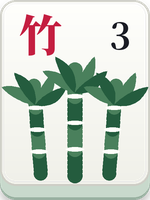
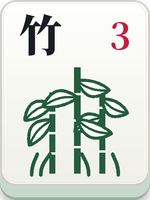
feat: 花牌改照參考牌的線稿風重畫，數字維持與正花規則一致
Claude-Session: https://claude.ai/code/session_01FkaSKsoHVMd3gT73nEjQwJ

Changed region(s): [[0.0, 0.06, 0.9867, 0.93], [0.72, 0.09, 0.88, 0.27]]

diff --git a/apps/manjong-unity/tools/render_tiles.py b/apps/manjong-unity/tools/render_tiles.py
@@ -405,186 +405,207 @@ def draw_honor(img, code):
 
 
 # ---------------------------------------------------------------- flowers (花牌)
-def plum_flower(d, cx, cy, r, color=RED):
-    """Five round petals with a stamen crown."""
-    for k in range(5):
-        a = math.radians(-90 + k * 72)
-        px, py = cx + math.cos(a) * r * 0.58, cy + math.sin(a) * r * 0.58
-        d.ellipse((px - r * 0.52, py - r * 0.52, px + r * 0.52, py + r * 0.52), fill=color, outline=PAPER, width=max(1, int(r * 0.07)))
-    dot(d, cx, cy, r * 0.30, PAPER)
-    dot(d, cx, cy, r * 0.20, mix(color, (0, 0, 0), 0.25))
-    for k in range(5):
-        a = math.radians(-54 + k * 72)
-        dot(d, cx + math.cos(a) * r * 0.36, cy + math.sin(a) * r * 0.36, r * 0.06, PAPER)
+# Line-art style: crimson outlined blossoms with a paper-white interior, thin green stems and leaves.
+LW = 3.4 * S  # outline width of blossoms (kept thick enough to survive a 44 px tall thumbnail)
+GW = 3.6 * S  # width of green lines
+
+
+def ocircle(d, cx, cy, r, color=RED, lw=LW, fill=PAPER):
+    d.ellipse((cx - r, cy - r, cx + r, cy + r), fill=fill, outline=color, width=max(1, int(lw)))
+
+
+def line(d, pts, w, color):
+    stroke(d, pts, w, w, color)
+
+
+def lens_pts(p0, p1, width, bend=0.0, steps=22):
+    vx, vy = p1[0] - p0[0], p1[1] - p0[1]
+    length = math.hypot(vx, vy) or 1.0
+    nx, ny = -vy / length, vx / length
+    left, right, axis = [], [], []
+    for i in range(steps + 1):
+        t = i / steps
+        off = bend * length * math.sin(math.pi * t)
+        cx, cy = p0[0] + vx * t + nx * off, p0[1] + vy * t + ny * off
+        half = width / 2 * math.sin(math.pi * t) ** 0.8
+        left.append((cx + nx * half, cy + ny * half))
+        right.append((cx - nx * half, cy - ny * half))
+        axis.append((cx, cy))
+    return left + right[::-1], axis
+
+
+def oleaf(d, p0, p1, width, color=GREEN, bend=0.0, lw=GW * 0.8, fill=PAPER, mid=True):
+    """Outlined leaf: coloured contour, paper interior, optional midrib."""
+    poly, axis = lens_pts(p0, p1, width, bend)
+    d.polygon(poly, fill=fill)
+    line(d, poly + [poly[0]], lw, color)
+    if mid:
+        line(d, axis[1:-1], lw * 0.7, color)
+
+
+def scallop_flower(d, cx, cy, r, count=8, color=RED, lw=LW):
+    """Blossom whose outline is a ring of lobes; interior stays paper-white."""
+    ring = r * 0.68
+    lobe = r * 0.36
+    for k in range(count):
+        a = k * 2 * math.pi / count
+        dot(d, cx + math.cos(a) * ring, cy + math.sin(a) * ring, lobe, color)
+    for k in range(count):
+        a = k * 2 * math.pi / count
+        dot(d, cx + math.cos(a) * ring, cy + math.sin(a) * ring, max(1, lobe - lw), PAPER)
+    dot(d, cx, cy, ring, PAPER)
 
 
 def draw_plum(d, P, sc):
-    stroke(d, bezier(P(0.04, 0.96), P(0.3, 0.9), P(0.45, 0.62), P(0.95, 0.12)), sc * 0.075, sc * 0.03, BROWN)
-    stroke(d, bezier(P(0.3, 0.84), P(0.32, 0.7), P(0.26, 0.5), P(0.2, 0.34)), sc * 0.04, sc * 0.02, BROWN)
-    stroke(d, bezier(P(0.56, 0.58), P(0.62, 0.6), P(0.72, 0.58), P(0.86, 0.6)), sc * 0.035, sc * 0.018, BROWN)
-    plum_flower(d, *P(0.4, 0.62), sc * 0.23)
-    plum_flower(d, *P(0.76, 0.34), sc * 0.17)
-    plum_flower(d, *P(0.2, 0.34), sc * 0.14)
-    for (u, v) in ((0.62, 0.8), (0.9, 0.5), (0.08, 0.6), (0.5, 0.2)):  # buds
-        dot(d, *P(u, v), sc * 0.05, RED)
-    leaf(d, P(0.34, 0.9), P(0.12, 0.84), sc * 0.1, GREEN, bend=0.1)
-    leaf(d, P(0.5, 0.4), P(0.56, 0.18), sc * 0.1, GREEN, bend=-0.1)
+    """梅: scalloped crimson blossom with a red heart, green twig with buds below."""
+    cx, cy = P(0.4, 0.32)
+    r = sc * 0.3
+    scallop_flower(d, cx, cy, r, 8)
+    ocircle(d, cx, cy, r * 0.36, RED, LW * 0.8)
+    dot(d, cx, cy, r * 0.16, RED)
+    # twig
+    line(d, bezier(P(0.06, 0.9), P(0.28, 0.82), P(0.5, 0.96), P(0.9, 0.7)), GW, GREEN)
+    line(d, bezier(P(0.7, 0.8), P(0.78, 0.62), P(0.84, 0.5), P(0.92, 0.46)), GW, GREEN)
+    line(d, bezier(P(0.46, 0.88), P(0.5, 0.72), P(0.56, 0.66), P(0.62, 0.62)), GW * 0.9, GREEN)
+    for (u, v, rr) in ((0.16, 0.86, 0.06), (0.3, 0.9, 0.05), (0.56, 0.92, 0.055), (0.92, 0.46, 0.05), (0.64, 0.6, 0.05)):
+        ocircle(d, *P(u, v), sc * rr, GREEN, GW * 0.8)
 
 
 def draw_orchid(d, P, sc):
-    base = P(0.5, 0.97)
-    ends = [(0.04, 0.38, -0.12), (0.16, 0.2, -0.1), (0.34, 0.06, -0.08), (0.7, 0.1, 0.08), (0.86, 0.26, 0.12), (0.97, 0.48, 0.12)]
-    for i, (u, v, bend) in enumerate(ends):
-        e = P(u, v)
-        mid1 = (lerp(base[0], e[0], 0.25), lerp(base[1], e[1], 0.6))
-        mid2 = (lerp(base[0], e[0], 0.75) + (e[0] - base[0]) * bend * 0.3, lerp(base[1], e[1], 0.85))
-        stroke(d, bezier(base, mid1, mid2, e), sc * 0.12, sc * 0.015, GREEN if i % 2 == 0 else GREEN_L)
-    # flower stalk with two orchid blossoms
-    stalk = bezier(P(0.5, 0.97), P(0.52, 0.7), P(0.47, 0.55), P(0.5, 0.38))
-    stroke(d, stalk, sc * 0.03, sc * 0.02, GREEN)
-    for (u, v, r, rot) in ((0.5, 0.4, 0.26, -90), (0.34, 0.66, 0.2, -140), (0.66, 0.62, 0.2, -40)):
-        cx, cy = P(u, v)
-        for k in range(5):
-            a = math.radians(rot + k * 72)
-            petal(d, cx, cy, a, 0, sc * r * (1.0 if k % 2 == 0 else 0.8), sc * r * 0.5, RED)
-        dot(d, cx, cy, sc * r * 0.22, PAPER)
-        dot(d, cx, cy, sc * r * 0.12, GREEN)
+    """蘭: long arching green leaves with a single crimson blossom."""
+    base = P(0.22, 0.98)
+    for tip, c1, c2, w0 in (
+        (P(0.1, 0.42), P(0.12, 0.8), P(0.04, 0.62), 0.11),
+        (P(0.52, 0.28), P(0.2, 0.78), P(0.3, 0.46), 0.1),
+        (P(0.72, 0.9), P(0.3, 0.6), P(0.62, 0.52), 0.09),
+        (P(0.46, 0.7), P(0.28, 0.95), P(0.4, 0.82), 0.07),
+    ):
+        stroke(d, bezier(base, c1, c2, tip), sc * w0, GW * 0.5, GREEN)
+    # blossom on a thin stalk
+    line(d, bezier(P(0.5, 0.5), P(0.56, 0.4), P(0.62, 0.3), P(0.68, 0.22)), GW * 0.8, GREEN)
+    cx, cy = P(0.7, 0.26)
+    for ang, ln in ((-50, 0.2), (30, 0.2), (-120, 0.17), (90, 0.17), (-170, 0.15)):
+        a = math.radians(ang)
+        tip = (cx + math.cos(a) * sc * ln * 1.35, cy + math.sin(a) * sc * ln * 1.35)
+        poly, _ = lens_pts((cx, cy), tip, sc * 0.18)
+        d.polygon(poly, fill=PAPER)
+        line(d, poly + [poly[0]], LW * 0.9, RED)
+    dot(d, cx, cy, sc * 0.05, RED)
 
 
 def draw_bamboo(d, P, sc):
-    culms = [(0.2, 0.97, 0.14, 0.2, 0.12), (0.5, 0.99, 0.5, 0.06, 0.13), (0.8, 0.97, 0.86, 0.2, 0.12)]
-    for (u0, v0, u1, v1, w) in culms:
-        x0, y0 = P(u0, v0)
-        x1, y1 = P(u1, v1)
-        seg = 4
-        for i in range(seg):
-            pts = [(lerp(x0, x1, (i + t / 6) / seg), lerp(y0, y1, (i + t / 6) / seg)) for t in range(7)]
-            stroke(d, pts, sc * w, sc * w, GREEN if i % 2 == 0 else GREEN_L)
-        for i in range(1, seg):
-            nx, ny = lerp(x0, x1, i / seg), lerp(y0, y1, i / seg)
-            d.ellipse((nx - sc * w * 0.62, ny - sc * 0.018, nx + sc * w * 0.62, ny + sc * 0.018), fill=PAPER)
-        # leaves at the top nodes
-        for k, a in enumerate((-160, -125, -55, -20)):
-            sx, sy = lerp(x0, x1, 0.78), lerp(y0, y1, 0.78)
-            ex = x1 + math.cos(math.radians(a)) * sc * 0.3
-            ey = y1 + math.sin(math.radians(a)) * sc * 0.26 + sc * 0.1
-            leaf(d, (sx, sy), (ex, ey), sc * 0.1, GREEN if k % 2 else GREEN_L, bend=0.06)
+    """竹: slim jointed culms with outlined leaf sprays and grass at the base."""
+    culms = ((0.3, 0.26, 0.05), (0.52, 0.04, 0.055), (0.74, 0.2, 0.05))
+    for (u, vtop, w) in culms:
+        x, ytop = P(u, vtop)
+        _, ybot = P(u, 0.97)
+        wpx = sc * w
+        d.rectangle((x - wpx / 2, ytop, x + wpx / 2, ybot), fill=GREEN)
+        n = 4
+        for i in range(1, n):
+            y = ytop + (ybot - ytop) * i / n
+            d.rectangle((x - wpx * 0.5, y - GW * 0.28, x + wpx * 0.5, y + GW * 0.28), fill=PAPER)
+    # leaf sprays hang from the upper nodes
+    for (u, v, ex, ey) in ((0.3, 0.36, 0.06, 0.5), (0.3, 0.5, 0.1, 0.72), (0.52, 0.16, 0.8, 0.24), (0.52, 0.3, 0.22, 0.38),
+                           (0.74, 0.32, 0.96, 0.44), (0.74, 0.48, 0.5, 0.6), (0.52, 0.5, 0.82, 0.62)):
+        oleaf(d, P(u, v), P(ex, ey), sc * 0.13, GREEN, bend=0.1)
+    for fx, dx in ((0.12, 0.05), (0.2, 0.08), (0.62, -0.06), (0.88, -0.05)):
+        line(d, bezier(P(fx, 0.98), P(fx, 0.9), P(fx + dx * 0.5, 0.86), P(fx + dx, 0.8)), GW * 0.9, GREEN)
 
 
 def draw_chrysanthemum(d, P, sc):
-    cx, cy = P(0.5, 0.4)
-    stroke(d, bezier(P(0.5, 0.98), P(0.44, 0.84), P(0.56, 0.7), P(0.5, 0.52)), sc * 0.05, sc * 0.035, GREEN)
-    leaf(d, P(0.48, 0.86), P(0.1, 0.62), sc * 0.17, GREEN, bend=-0.12, vein=GREEN_L)
-    leaf(d, P(0.52, 0.8), P(0.92, 0.56), sc * 0.17, GREEN_L, bend=0.12, vein=GREEN)
-    leaf(d, P(0.5, 0.94), P(0.22, 0.96), sc * 0.1, GREEN, bend=0.1)
-    leaf(d, P(0.5, 0.94), P(0.8, 0.97), sc * 0.1, GREEN_L, bend=-0.1)
-    R0 = sc * 0.42
-    for ring, (cnt, r1, wd, col, off) in enumerate(((16, R0, 0.15, RED, 0), (12, R0 * 0.76, 0.14, mix(RED, (255, 255, 255), 0.25), 0.5), (9, R0 * 0.5, 0.12, RED, 0))):
-        for k in range(cnt):
-            a = (k + off) * 2 * math.pi / cnt
-            petal(d, cx, cy, a, R0 * 0.1, r1, R0 * wd * 2.3, col)
-            # paper rim along each petal separates the layers when scaled down
-            petal(d, cx, cy, a, r1 * 0.7, r1 * 0.98, R0 * wd * 0.5, mix(col, (255, 255, 255), 0.55))
-    dot(d, cx, cy, R0 * 0.2, PAPER)
-    dot(d, cx, cy, R0 * 0.12, GREEN)
+    """菊: ring of small crimson circles around a centre circle, leafy green stem."""
+    cx, cy = P(0.5, 0.28)
+    R0 = sc * 0.3
+    for k in range(8):
+        a = k * 2 * math.pi / 8
+        ocircle(d, cx + math.cos(a) * R0 * 0.78, cy + math.sin(a) * R0 * 0.78, R0 * 0.34, RED, LW * 0.9)
+    ocircle(d, cx, cy, R0 * 0.5, RED, LW * 0.9)
+    dot(d, cx, cy, R0 * 0.16, RED)
+    # stem and leaves
+    line(d, bezier(P(0.5, 0.5), P(0.5, 0.62), P(0.42, 0.7), P(0.4, 0.82)), GW, GREEN)
+    line(d, bezier(P(0.12, 0.88), P(0.35, 0.82), P(0.65, 0.9), P(0.9, 0.8)), GW, GREEN)
+    oleaf(d, P(0.44, 0.7), P(0.12, 0.62), sc * 0.16, GREEN, bend=-0.1)
+    oleaf(d, P(0.44, 0.7), P(0.84, 0.6), sc * 0.17, GREEN, bend=0.1)
+    oleaf(d, P(0.3, 0.86), P(0.06, 0.96), sc * 0.12, GREEN, bend=0.12)
+    oleaf(d, P(0.7, 0.86), P(0.94, 0.96), sc * 0.12, GREEN, bend=-0.12)
 
 
 def draw_peony(d, P, sc):
-    """春: a layered round blossom with leaves and a bud."""
-    stroke(d, bezier(P(0.5, 0.98), P(0.48, 0.8), P(0.52, 0.7), P(0.5, 0.52)), sc * 0.045, sc * 0.035, GREEN)
-    leaf(d, P(0.5, 0.86), P(0.06, 0.7), sc * 0.18, GREEN, bend=-0.12, vein=GREEN_L)
-    leaf(d, P(0.5, 0.82), P(0.94, 0.66), sc * 0.18, GREEN_L, bend=0.12, vein=GREEN)
-    leaf(d, P(0.5, 0.96), P(0.16, 0.97), sc * 0.1, GREEN, bend=0.1)
-    cx, cy = P(0.5, 0.38)
-    R0 = sc * 0.38
-    for (cnt, rr, pw, off, col) in ((6, 1.0, 0.75, 0, RED), (6, 0.78, 0.65, 0.5, mix(RED, (255, 255, 255), 0.18)), (5, 0.52, 0.5, 0, RED)):
-        for k in range(cnt):
-            a = (k + off) * 2 * math.pi / cnt - math.pi / 2
-            px, py = cx + math.cos(a) * R0 * rr * 0.55, cy + math.sin(a) * R0 * rr * 0.55
-            r = R0 * rr * pw * 0.62
-            d.ellipse((px - r, py - r, px + r, py + r), fill=col, outline=PAPER, width=max(1, int(S * 1.2)))
-    dot(d, cx, cy, R0 * 0.2, PAPER)
-    dot(d, cx, cy, R0 * 0.12, GREEN)
-    dot(d, *P(0.86, 0.32), sc * 0.07, RED)
-    stroke(d, bezier(P(0.86, 0.4), P(0.84, 0.5), P(0.78, 0.6), P(0.62, 0.74)), sc * 0.025, sc * 0.02, GREEN)
+    """春: layered crimson outlined peony over crossing green leaves and a stem."""
+    cx, cy = P(0.5, 0.3)
+    R0 = sc * 0.37
+    for k in range(6):
+        a = math.radians(-90 + k * 60)
+        ocircle(d, cx + math.cos(a) * R0 * 0.62, cy + math.sin(a) * R0 * 0.62, R0 * 0.42, RED, LW)
+    for k in range(5):
+        a = math.radians(-72 + k * 72)
+        ocircle(d, cx + math.cos(a) * R0 * 0.34, cy + math.sin(a) * R0 * 0.34, R0 * 0.3, RED, LW * 0.9)
+    ocircle(d, cx, cy, R0 * 0.16, RED, LW * 0.8)
+    # stem (double line) running diagonally under the flower, leaves either side
+    line(d, [P(0.3, 0.9), P(0.5, 0.72), P(0.74, 0.62)], GW * 2.4, GREEN)
+    line(d, [P(0.3, 0.9), P(0.5, 0.72), P(0.74, 0.62)], GW * 0.9, PAPER)
+    oleaf(d, P(0.46, 0.74), P(0.06, 0.64), sc * 0.17, GREEN, bend=-0.12)
+    oleaf(d, P(0.42, 0.8), P(0.08, 0.92), sc * 0.15, GREEN, bend=0.12)
+    oleaf(d, P(0.74, 0.7), P(0.96, 0.84), sc * 0.14, GREEN, bend=0.1)
+    oleaf(d, P(0.78, 0.62), P(0.96, 0.5), sc * 0.12, GREEN, bend=-0.1)
 
 
 def draw_lotus(d, P, sc):
-    """夏: lotus blossom over a round leaf."""
-    # leaf pad (flattened ellipse) with veins
-    lx0, ly0 = P(0.04, 0.72)
-    lx1, ly1 = P(0.96, 0.98)
-    d.ellipse((lx0, ly0, lx1, ly1), fill=GREEN)
-    lcx, lcy = (lx0 + lx1) / 2, (ly0 + ly1) / 2
-    for k in range(9):
-        a = math.radians(180 + k * 22.5)
-        d.line([(lcx, lcy), (lcx + math.cos(a) * (lx1 - lx0) * 0.46, lcy + math.sin(a) * (ly1 - ly0) * 0.46)], fill=GREEN_L, width=int(S * 1.2))
-    stroke(d, bezier(P(0.5, 0.86), P(0.5, 0.74), P(0.5, 0.62), P(0.5, 0.52)), sc * 0.05, sc * 0.04, GREEN)
-    cx, cy = P(0.5, 0.52)
-    for ang, ln, wd in ((-150, 0.5, 0.2), (-30, 0.5, 0.2), (-122, 0.56, 0.2), (-58, 0.56, 0.2), (-90, 0.62, 0.22)):
+    """夏: crimson outlined lotus with layered pointed petals, grass strokes below."""
+    cx, cy = P(0.52, 0.4)
+    base = (cx, cy + sc * 0.22)
+    for ang, ln, wd in ((-155, 0.4, 0.26), (-25, 0.4, 0.26), (-118, 0.47, 0.28), (-62, 0.47, 0.28), (-90, 0.52, 0.28)):
         a = math.radians(ang)
-        tip = (cx + math.cos(a) * sc * ln, cy + math.sin(a) * sc * ln * 0.95)
-        leaf(d, (cx, cy), tip, sc * wd, RED if ang != -90 else mix(RED, (255, 255, 255), 0.2), vein=PAPER)
-    for ang in (-170, 10):
-        a = math.radians(ang)
-        tip = (cx + math.cos(a) * sc * 0.4, cy + math.sin(a) * sc * 0.18)
-        leaf(d, (cx, cy + sc * 0.02), tip, sc * 0.17, mix(RED, (255, 255, 255), 0.1))
-    dot(d, cx, cy, sc * 0.045, PAPER)
-
-
-def maple_leaf(d, cx, cy, r, angle_deg, color):
-    pts = []
-    base = math.radians(angle_deg)
-    lobes = 5
-    for i in range(lobes * 2):
-        a = base + i * math.pi / lobes
-        rr = r if i % 2 == 0 else r * 0.45
-        if i % 2 == 0 and i in (4, 6):
-            rr = r * 0.8
-        pts.append((cx + math.cos(a) * rr, cy + math.sin(a) * rr))
-    d.polygon(pts, fill=color)
-    return pts
+        tip = (base[0] + math.cos(a) * sc * ln, base[1] + math.sin(a) * sc * ln)
+        poly, axis = lens_pts(base, tip, sc * wd)
+        d.polygon(poly, fill=PAPER)
+        line(d, poly + [poly[0]], LW, RED)
+    line(d, [base, (base[0], base[1] - sc * 0.34)], LW * 0.8, RED)
+    # grass
+    for fx, tx in ((0.12, 0.06), (0.24, 0.28), (0.36, 0.5), (0.48, 0.7), (0.6, 0.9)):
+        line(d, bezier(P(fx, 0.98), P(fx, 0.86), P(tx - 0.02, 0.82), P(tx, 0.74)), GW * 0.9, GREEN)
 
 
 def draw_maple(d, P, sc):
-    """秋: maple branch with three crimson leaves."""
-    stroke(d, bezier(P(0.06, 0.98), P(0.3, 0.8), P(0.6, 0.78), P(0.92, 0.5)), sc * 0.05, sc * 0.025, BROWN)
-    stroke(d, bezier(P(0.34, 0.8), P(0.3, 0.6), P(0.3, 0.5), P(0.28, 0.4)), sc * 0.035, sc * 0.02, BROWN)
-    stroke(d, bezier(P(0.62, 0.74), P(0.66, 0.6), P(0.68, 0.5), P(0.72, 0.36)), sc * 0.035, sc * 0.02, BROWN)
-    for (u, v, r, a, c) in ((0.28, 0.34, 0.3, -90, RED), (0.72, 0.3, 0.3, -90, mix(RED, (255, 255, 255), 0.12)), (0.5, 0.64, 0.24, -90, RED)):
-        cx, cy = P(u, v)
-        maple_leaf(d, cx, cy, sc * r, a + 18, c)
-        # veins
-        for k in range(5):
-            aa = math.radians(a + 18 + k * 72)
-            d.line([(cx, cy), (cx + math.cos(aa) * sc * r * 0.8, cy + math.sin(aa) * sc * r * 0.8)], fill=PAPER, width=max(1, int(S * 1.1)))
-    leaf(d, P(0.1, 0.94), P(0.04, 0.72), sc * 0.1, GREEN, bend=0.1)
-    leaf(d, P(0.78, 0.6), P(0.96, 0.78), sc * 0.1, GREEN, bend=0.1)
+    """秋: crimson circle-cluster blossom on green branches with outlined leaves."""
+    cx, cy = P(0.56, 0.36)
+    R0 = sc * 0.3
+    for k in range(9):
+        a = k * 2 * math.pi / 9 - math.pi / 2
+        ocircle(d, cx + math.cos(a) * R0 * 0.72, cy + math.sin(a) * R0 * 0.72, R0 * 0.27, RED, LW * 0.9)
+    ocircle(d, cx, cy, R0 * 0.3, RED, LW * 0.9)
+    dot(d, cx, cy, R0 * 0.11, RED)
+    # diagonal stem and branches
+    line(d, [P(0.34, 0.96), P(0.56, 0.78), P(0.8, 0.7)], GW * 2.2, GREEN)
+    line(d, [P(0.34, 0.96), P(0.56, 0.78), P(0.8, 0.7)], GW * 0.8, PAPER)
+    line(d, bezier(P(0.46, 0.7), P(0.3, 0.6), P(0.16, 0.5), P(0.14, 0.36)), GW, GREEN)
+    oleaf(d, P(0.2, 0.52), P(0.04, 0.22), sc * 0.13, GREEN, bend=0.12)
+    oleaf(d, P(0.16, 0.44), P(0.38, 0.1), sc * 0.13, GREEN, bend=-0.1)
+    oleaf(d, P(0.4, 0.84), P(0.08, 0.86), sc * 0.14, GREEN, bend=0.12)
+    oleaf(d, P(0.8, 0.7), P(0.96, 0.54), sc * 0.12, GREEN, bend=-0.1)
 
 
 def draw_pine(d, P, sc):
-    """冬: pine branch with needle fans and a crimson camellia bloom."""
-    stroke(d, bezier(P(0.04, 0.96), P(0.3, 0.86), P(0.5, 0.64), P(0.96, 0.5)), sc * 0.06, sc * 0.03, BROWN)
-    for (u, v, rot) in ((0.16, 0.9, -70), (0.36, 0.8, -85), (0.58, 0.68, -95), (0.82, 0.58, -105), (0.28, 0.86, 55), (0.5, 0.74, 50), (0.74, 0.64, 45)):
-        cx, cy = P(u, v)
-        for k in range(5):
-            a = math.radians(rot - 32 + k * 16)
-            ex, ey = cx + math.cos(a) * sc * 0.32, cy + math.sin(a) * sc * 0.32
-            leaf(d, (cx, cy), (ex, ey), sc * 0.05, GREEN if k % 2 == 0 else GREEN_L)
-    cx, cy = P(0.5, 0.3)
-    R0 = sc * 0.24
+    """冬: small crimson five-petal blossom above crossing green leaves."""
+    cx, cy = P(0.52, 0.27)
+    R0 = sc * 0.23
     for k in range(5):
         a = math.radians(-90 + k * 72)
-        px, py = cx + math.cos(a) * R0 * 0.6, cy + math.sin(a) * R0 * 0.6
-        d.ellipse((px - R0 * 0.6, py - R0 * 0.6, px + R0 * 0.6, py + R0 * 0.6), fill=RED, outline=PAPER, width=max(1, int(S * 1.2)))
-    dot(d, cx, cy, R0 * 0.4, PAPER)
-    dot(d, cx, cy, R0 * 0.26, mix(RED, (0, 0, 0), 0.25))
-    for (u, v) in ((0.88, 0.32), (0.14, 0.42)):
-        dot(d, *P(u, v), sc * 0.055, RED)
+        ocircle(d, cx + math.cos(a) * R0 * 0.72, cy + math.sin(a) * R0 * 0.72, R0 * 0.46, RED, LW * 0.9)
+    ocircle(d, cx, cy, R0 * 0.3, RED, LW * 0.7)
+    line(d, bezier(P(0.5, 0.42), P(0.5, 0.56), P(0.52, 0.64), P(0.5, 0.78)), GW, GREEN)
+    # crossing leaves
+    oleaf(d, P(0.5, 0.82), P(0.04, 0.5), sc * 0.17, GREEN, bend=-0.12)
+    oleaf(d, P(0.5, 0.82), P(0.96, 0.44), sc * 0.17, GREEN, bend=0.12)
+    oleaf(d, P(0.44, 0.9), P(0.8, 0.78), sc * 0.14, GREEN, bend=-0.12)
+    oleaf(d, P(0.56, 0.9), P(0.2, 0.8), sc * 0.14, GREEN, bend=0.12)
+    oleaf(d, P(0.5, 0.82), P(0.6, 0.52), sc * 0.12, GREEN, bend=0.1)
 
 
 FLOWER = {
-    # code: (character, number, season-style?, plant renderer)
+    # code: (character, corner number, season layout?, plant renderer). Numbers must match the server seat-flower
+    # rule (tiles.ts FLOWER_ZH: 竹 = 3, 菊 = 4), even though the reference photo shows 菊 3 / 竹 4.
     "F1": ("春", "1", True, draw_peony),
     "F2": ("夏", "2", True, draw_lotus),
     "F3": ("秋", "3", True, draw_maple),
@@ -601,14 +622,16 @@ def draw_flower(img, code):
     ch, num, season, painter = FLOWER[code]
     cw, chh = CX1 - CX0, CY1 - CY0
     head_h = chh * 0.24
-    # corner number and character: seasons put the number left, plants put it right
+    # seasons: black number top-left, red character top-right; plants: black character top-left, red number top-right
     char_size = int(head_h * 1.15)
     num_size = int(head_h * 0.95)
     margin = 4 * S
-    num_x = CX0 + margin + num_size * 0.3 if season else CX1 - margin - num_size * 0.3
-    char_x = CX1 - margin - char_size * 0.5 if season else CX0 + margin + char_size * 0.5
-    text_center(d, num_x, CY0 + head_h * 0.55, num, num_size, INK, bold=True)
-    text_center(d, char_x, CY0 + head_h * 0.52, ch, char_size, RED)
+    if season:
+        text_center(d, CX0 + margin + num_size * 0.3, CY0 + head_h * 0.55, num, num_size, INK, bold=True)
+        text_center(d, CX1 - margin - char_size * 0.5, CY0 + head_h * 0.52, ch, char_size, RED)
+    else:
+        text_center(d, CX0 + margin + char_size * 0.5, CY0 + head_h * 0.52, ch, char_size, INK)
+        text_center(d, CX1 - margin - num_size * 0.3, CY0 + head_h * 0.55, num, num_size, RED, bold=True)
     # plant picture in the lower part
     x0, y0 = CX0 + 3 * S, CY0 + chh * 0.27
     x1, y1 = CX1 - 3 * S, CY1 + 4 * S
